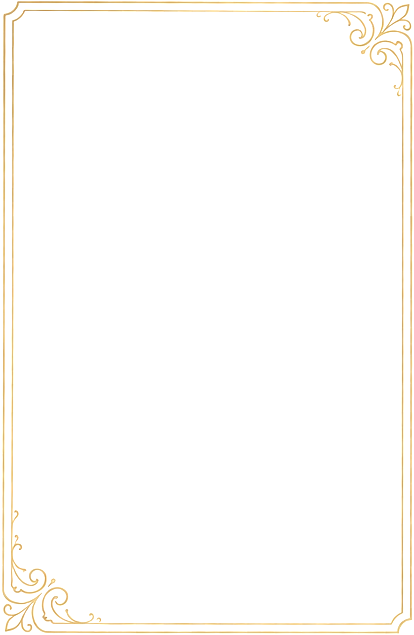
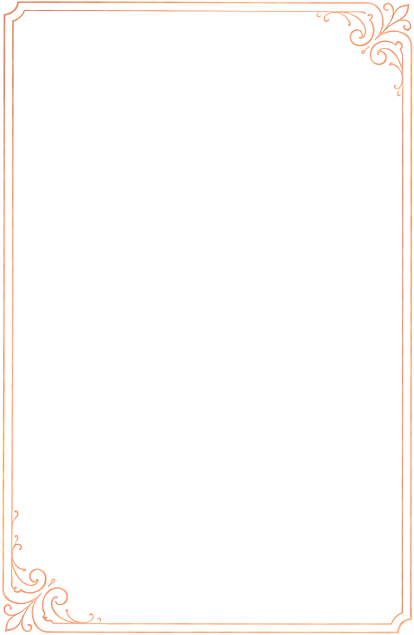
cambios de tonos

diff --git a/recursos/scriptInvitacion.js b/recursos/scriptInvitacion.js
@@ -40,12 +40,6 @@ document.body.onload = function inicio() {
   let masDetalles = document.getElementById("masDetalles");
   let link2 = document.getElementById("link2");
 
-  nombreInvitado.textContent = inv;
-
-  console.log("alto= ",alto);
-  console.log("ancho= ",ancho);
-    
-  fallo.style.width = (ancho*0.5) + "px"; // en la seccion "fondoInvitacion" se altera la propiedad css width
   
   marcoInvitacion.style.opacity = "0"; // en la seccion "fondoInvitacion" se altera la propiedad css width
   esqSupInvitacion.style.opacity = "0"; // en la seccion "fondoInvitacion" se altera la propiedad css width
@@ -57,6 +51,61 @@ document.body.onload = function inicio() {
   click.style.opacity = "0"; // en la seccion "fondoInvitacion" se altera la propiedad css width
   esqInfInvitacion.style.opacity = "0"; // en la seccion "fondoInvitacion" se altera la propiedad css width
   masDetalles.style.opacity = "0"; // en la seccion "fondoInvitacion" se altera la propiedad css width
+  link2.style.opacity = "0"; // en la seccion "fondoInvitacion" se altera la propiedad css width
+
+ let fondoIntro = document.getElementById("fondoIntro");
+ let anillos0 = document.getElementById("anillos0");
+ let VJ1 = document.getElementById("VJ1");
+ let VJ2 = document.getElementById("VJ2");
+ let VJ3 = document.getElementById("VJ3");
+ let VJ4 = document.getElementById("VJ4");
+
+ anillos0.style.opacity = "0"; // en la seccion "fondoInvitacion" se altera la propiedad css width
+ VJ1.style.opacity = "0"; // en la seccion "fondoInvitacion" se altera la propiedad css width
+ VJ2.style.opacity = "0"; // en la seccion "fondoInvitacion" se altera la propiedad css width
+ VJ3.style.opacity = "0"; // en la seccion "fondoInvitacion" se altera la propiedad css width
+ VJ4.style.opacity = "0"; // en la seccion "fondoInvitacion" se altera la propiedad css width
+
+ let arranque = Date.now(); // recordar la hora de inicio
+  let cronometro = setInterval(function() {
+    let tiempo = Date.now() - arranque; // ¿Cuánto tiempo pasó desde el principio?
+    if (tiempo >= 3000) {
+      clearInterval(cronometro); // terminar la animación después de 2 segundos
+      return;
+    }
+    // dibujar la animación en el momento timePassed
+    animacion(tiempo);
+  }, 20);
+  
+  // mientras timePassed va de 0 a 2000
+  // Opacity obtiene valores de 1 a 0
+  function animacion(tiempo) { 
+    if (200<=tiempo && tiempo<=2200) {
+     VJ1.style.opacity = (tiempo-200)/2000; // en la seccion "fondoInvitacion" se altera la propiedad css width  
+    } 
+    if (500<=tiempo && tiempo<=3000) {
+      VJ3.style.opacity = (tiempo-500)/2500; // en la seccion "fondoInvitacion" se altera la propiedad css width
+    } 
+    if (1000<=tiempo && tiempo<=3000) {
+      VJ4.style.opacity = (tiempo-1000)/2000;// en la seccion "fondoInvitacion" se altera la propiedad css width
+    } 
+    if (1200<=tiempo && tiempo<=2800) {
+      VJ2.style.opacity = (tiempo-1200)/1600; // en la seccion "fondoInvitacion" se altera la propiedad css width
+    } 
+    if (500<=tiempo && tiempo<=3000) {
+      anillos0.style.opacity = (tiempo-500)/2500; // en la seccion "fondoInvitacion" se altera la propiedad css width
+    } 
+  }
+
+
+  nombreInvitado.textContent = inv;
+
+  console.log("alto= ",alto);
+  console.log("ancho= ",ancho);
+    
+  fallo.style.width = (ancho*0.5) + "px"; // en la seccion "fondoInvitacion" se altera la propiedad css width
+  
+  
 
    if (qpo=="s"){
     detallesCupo= document.getElementById("detallesCupo1");
@@ -72,7 +121,78 @@ document.body.onload = function inicio() {
     document.getElementById('orientacion').style.transform="scale(1)";
   }
   
-let arranque = Date.now(); // recordar la hora de inicio
+
+ };
+
+ 
+ window.onresize = function() {
+  var alto = window.innerHeight; 
+  var ancho = window.innerWidth;
+    
+  let fallo = document.getElementById("fallo");
+  fallo.style.width = (ancho*0.5) + "px"; // en la seccion "fondo" se altera la propiedad css width
+      
+  console.log("alto= ",alto);
+  console.log("ancho= ",ancho);
+    
+  if (alto>ancho){ // condicional que se cumple si...
+    document.getElementById('orientacion').style.transform="scale(0)";
+        
+  }else{ // condicional que se cumple si...
+    document.getElementById('orientacion').style.transform="scale(1)";
+  }
+} 
+
+function clickAnillo0() {
+
+ let fondoIntro = document.getElementById("fondoIntro");
+ let anillos0 = document.getElementById("anillos0");
+ let VJ1 = document.getElementById("VJ1");
+ let VJ2 = document.getElementById("VJ2");
+ let VJ3 = document.getElementById("VJ3");
+ let VJ4 = document.getElementById("VJ4");
+
+ let arranque = Date.now(); // recordar la hora de inicio
+  let cronometro = setInterval(function() {
+    let tiempo = Date.now() - arranque; // ¿Cuánto tiempo pasó desde el principio?
+    if (tiempo >= 2000) {
+      clearInterval(cronometro); // terminar la animación después de 2 segundos
+      return;
+    }
+    // dibujar la animación en el momento timePassed
+    animacion(tiempo);
+  }, 20);
+  
+  // mientras timePassed va de 0 a 2000
+  // Opacity obtiene valores de 1 a 0
+  function animacion(tiempo) { 
+    if (200<=tiempo && tiempo<=1200) {
+     VJ1.style.opacity = 1-((tiempo-200)/1000); // en la seccion "fondoInvitacion" se altera la propiedad css width  
+    } 
+    if (500<=tiempo && tiempo<=2000) {
+      VJ3.style.opacity = 1-((tiempo-500)/1500); // en la seccion "fondoInvitacion" se altera la propiedad css width
+    } 
+    if (1000<=tiempo && tiempo<=2000) {
+      VJ4.style.opacity = 1-((tiempo-1000)/1000);// en la seccion "fondoInvitacion" se altera la propiedad css width
+    } 
+    if (1200<=tiempo && tiempo<=1800) {
+      VJ2.style.opacity = 1-((tiempo-1200)/600); // en la seccion "fondoInvitacion" se altera la propiedad css width
+    } 
+    if (500<=tiempo && tiempo<=2000) {
+      anillos0.style.opacity = 1-((tiempo-500)/1500); // en la seccion "fondoInvitacion" se altera la propiedad css width
+    } 
+  }
+
+  setTimeout(function () { // se ejecuta la funcion una vez se carga la pagina, con un retraso definido
+   document.getElementById("fondoIntro").style.display = "none";
+   abrirInvitacion();
+
+ },2500); // el retraso definido en milisegundos
+}
+
+function abrirInvitacion(){
+
+ let arranque = Date.now(); // recordar la hora de inicio
   let cronometro = setInterval(function() {
     let tiempo = Date.now() - arranque; // ¿Cuánto tiempo pasó desde el principio?
     if (tiempo >= 3000) {
@@ -112,33 +232,11 @@ setTimeout(function () { // se ejecuta la funcion una vez se carga la pagina, co
 
  },5000); // el retraso definido en milisegundos
 
- };
- window.onresize = function() {
-  var alto = window.innerHeight; 
-  var ancho = window.innerWidth;
-    
-  let fallo = document.getElementById("fallo");
-  fallo.style.width = (ancho*0.5) + "px"; // en la seccion "fondo" se altera la propiedad css width
-      
-  console.log("alto= ",alto);
-  console.log("ancho= ",ancho);
-    
-  if (alto>ancho){ // condicional que se cumple si...
-    document.getElementById('orientacion').style.transform="scale(0)";
-        
-  }else{ // condicional que se cumple si...
-    document.getElementById('orientacion').style.transform="scale(1)";
-  }
-} 
-
-function clickAnillo0() {
-
-  document.getElementById("fondoIntro").style.display = "none";
-  
 }
+
 var masMenosDetalles = 1;
 
-function masDetalles() {
+function masDetallesClick() {
 
   if(masMenosDetalles == "1"){
     let arranque = Date.now(); // recordar la hora de inicio

diff --git a/recursos/estilos.css b/recursos/estilos.css
@@ -285,7 +285,7 @@ html, body { /*afecta a todo el cuerpo del documento*/
     width: 100vw; /*se toma como ancho de seccion todo el contenido*/
     height: 100%;/*se toma como alto de seccion todo el contenido*/
     border: none;
-    background: rgb(255, 249, 230); /*color de fondo*/
+    background: rgb(255, 230, 234); /*color de fondo*/
     background-size:35vw;
     position: static; /*Se posiciona en la ultima parte de atras*/
     display: flex;
@@ -366,7 +366,7 @@ html, body { /*afecta a todo el cuerpo del documento*/
     width: 40vw;
     position: absolute; /*Se posiciona en la ultima parte de atras*/
     top: 50%;
-    transform:translate(10%, -115%); 
+    transform:translate(10%, -120%); 
     rotate: -3deg;
     z-index: 3; 
     border-bottom: 5dvh solid rgb(255, 255, 255);
@@ -392,7 +392,7 @@ html, body { /*afecta a todo el cuerpo del documento*/
     width: 40vw;
     position: absolute; /*Se posiciona en la ultima parte de atras*/
     top: 50%;
-    transform:translate(-100%, 20%); 
+    transform:translate(-100%, 25%); 
     rotate: 3deg;
     z-index: 3; 
     border-bottom: 5dvh solid rgb(255, 255, 255);
@@ -411,7 +411,7 @@ html, body { /*afecta a todo el cuerpo del documento*/
     width: 100vw; /*se toma como ancho de seccion todo el contenido*/
     height: 100%;/*se toma como alto de seccion todo el contenido*/
     border: none;
-    background: rgb(255, 249, 230); /*color de fondo*/
+    background: rgb(255, 230, 234); /*color de fondo*/
     background-size:35vw;
     position: static; /*Se posiciona en la ultima parte de atras*/
     display: flex;

diff --git a/invitacion.html b/invitacion.html
@@ -62,7 +62,7 @@
          </a>
          <img src="recursos/Invitacion/anillos.png" alt="Anillos" id="anillos">
          <img src="recursos/Invitacion/esquinaInvitacionInf.png" alt="Esquina Inferior" id="esqInfInvitacion">
-         <img src="recursos/Invitacion/masDetalles.png" alt="Boton Mas Detalles" onclick="masDetalles()" id="masDetalles">
+         <img src="recursos/Invitacion/masDetalles.png" alt="Boton Mas Detalles" onclick="masDetallesClick()" id="masDetalles">
         <div id="final" >
         </div>
         <a class="link2" id="link2" href="eventos/08001/08001A/08001A.html"></a>
